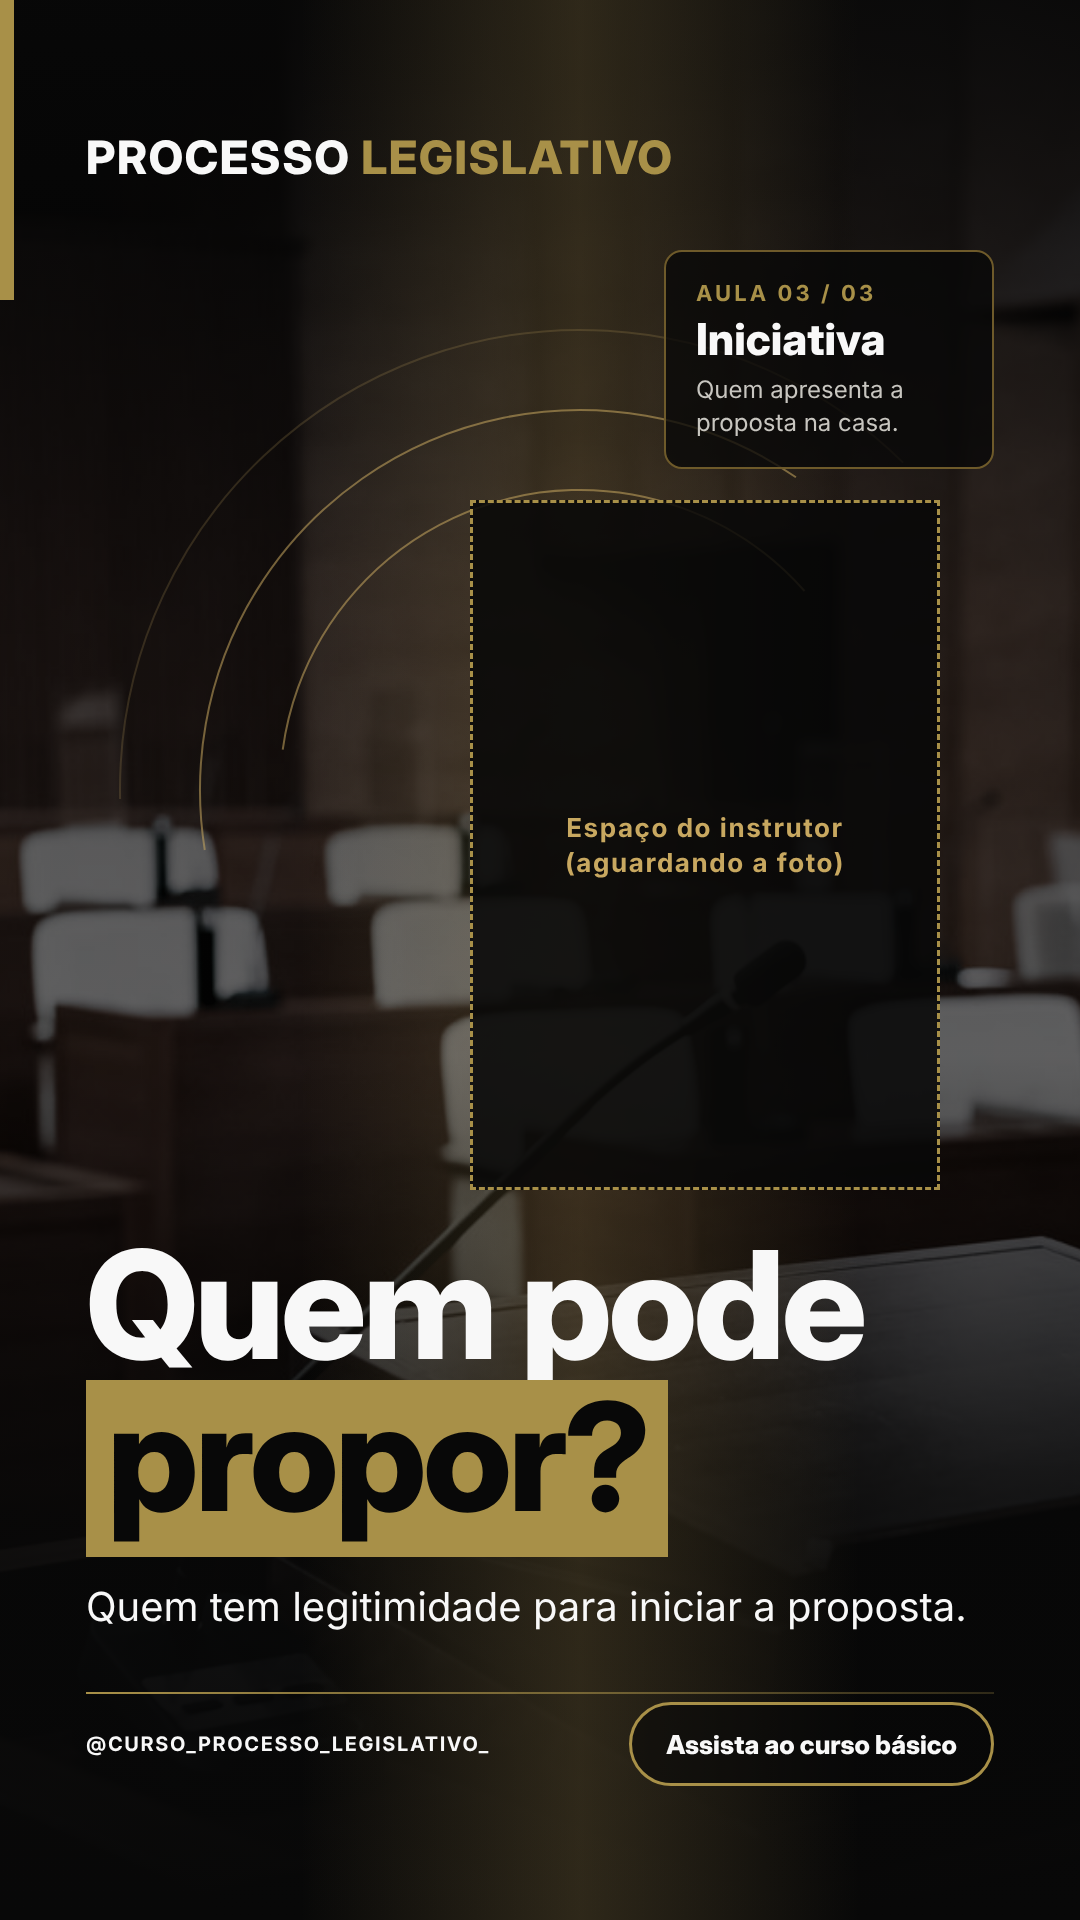
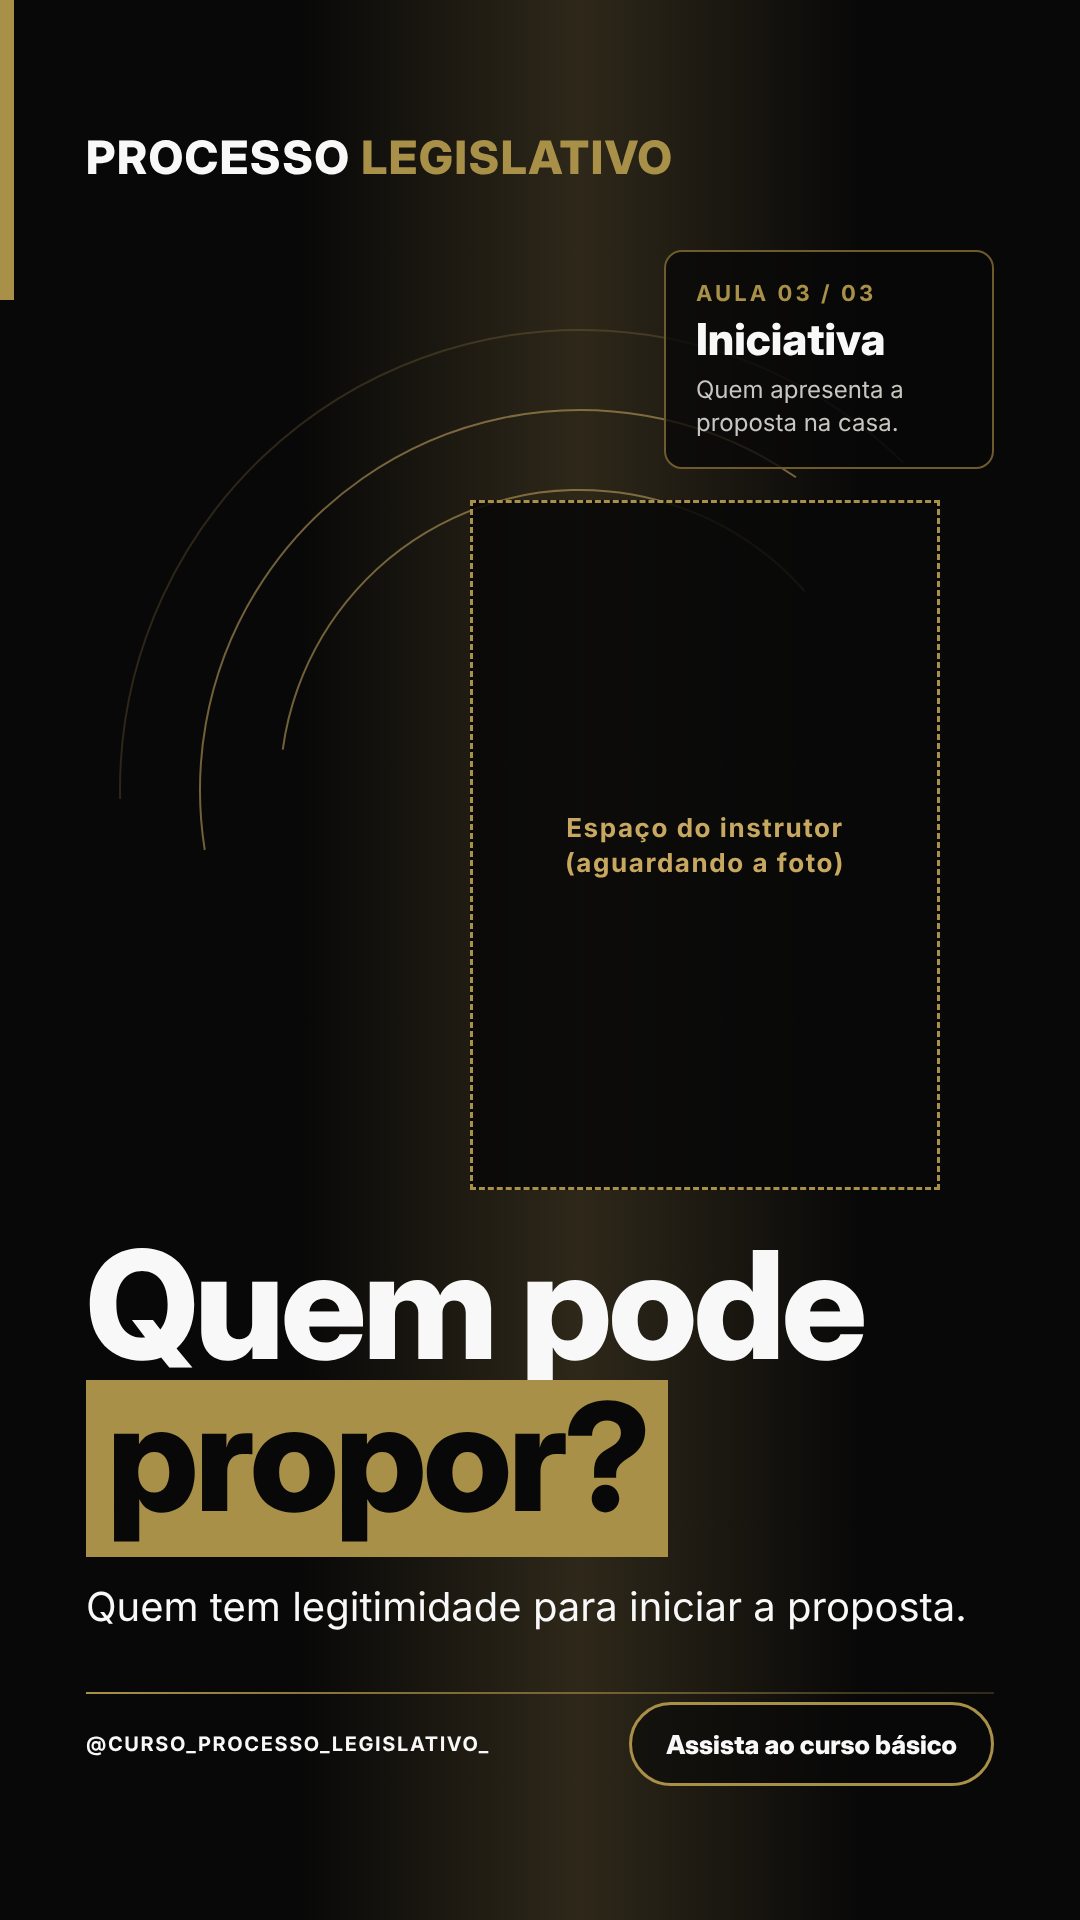
Curso de processo legislativo: capas v16 (sistema com elementos das referências)
Engenharia reversa das cinco peças de referência (só estrutura e elementos; sem rostos, marcas, textos ou fotos de terceiros), com medidas de cor em PIL e os 10 padrões que se repetem. Três capas 1080x1920 com o sistema da marca (preto #080808, dourado fosco #A89048, highlight #C8A860, branco #F8F8F8), prancha de elementos e espaço do instrutor tracejado.

Fotos: perguntas-podio.jpg (já usada na v13, pede OK do Lindson) e pakutaso-politico-maos-9243.jpg (licença comercial sem atribuição). Capa 3 sem foto de banco: a foto candidata era igual à perguntas-podio. Aguardando aprovação do Lindson.

Claude-Session: https://claude.ai/code/session_01KiaatHHTp37wp55wT2tF4N

diff --git a/agencia/clientes/curso-processo-legislativo/gerar-v16.js b/agencia/clientes/curso-processo-legislativo/gerar-v16.js
@@ -141,7 +141,7 @@ const capa2 = doc(
   `
 <div class="c">
   <canvas id="foto2" class="full" style="width:1080px;height:1920px"></canvas>
-  <div class="abs" style="left:0;top:940px;width:1080px;height:240px;background:linear-gradient(180deg,rgba(8,8,8,0),#080808)"></div>
+  <div class="abs" style="left:0;top:960px;width:1080px;height:260px;background:linear-gradient(180deg,#080808 0%,rgba(8,8,8,0) 100%)"></div>
   <div class="leitura"></div>
   <div class="feixe" style="left:380px;top:-200px;width:900px;height:1300px;transform:rotate(-18deg)"></div>
   <div class="tarja-e" style="top:420px;height:600px"></div>
@@ -180,11 +180,11 @@ window.__task = async function(){
 );
 
 // ---------- Capa 3: "Quem pode propor?" ----------
-const FOTO3 = foto('pakutaso-v16/pakutaso-tribuna-podio-9354.jpg'); // Pakutaso (licença comercial sem atribuição), pódio com microfones
+// Capa 3 sem foto de banco: o pódio de 1600 px é igual à perguntas-podio (capa 1), e as demais candidatas tinham 800 px.
 const capa3 = doc(
   `
 <div class="c">
-  <div class="full" style="background:url(${FOTO3}) 42% 50%/cover no-repeat;filter:saturate(.35) brightness(.5) contrast(1.08)"></div>
+  <div class="deg"></div>
   <div class="leitura"></div>
   <div class="feixe" style="left:300px;top:-300px;width:560px;height:2400px;background:linear-gradient(90deg,rgba(200,168,96,0) 0%,rgba(200,168,96,.2) 50%,rgba(200,168,96,0) 100%)"></div>
   ${ARCOS(90, 300)}
@@ -217,7 +217,7 @@ const ELEMENTOS = `
     <div class="tile"><div class="tt">4 · Destaque em caixa dourada</div><div style="font-family:'Inter Display';font-weight:800;font-size:64px;line-height:1.2;padding-top:40px">sem <span class="box">quórum?</span></div></div>
     <div class="tile"><div class="tt">5 · Chips com ícone</div><div style="position:relative;height:190px"><div class="chip" style="position:absolute;left:0;top:30px">${CHECK}Regimento</div><div class="chip" style="position:absolute;left:0;top:120px">${CHECK}Presença</div></div></div>
     <div class="tile"><div class="tt">6 · Lista em cartão com marcador</div><div style="position:relative;height:190px"><div class="lista" style="position:absolute;left:0;top:10px;width:300px;padding:18px 22px">
-      <div style="font-size:24px">${TRI}Regimento interno</div><div style="font-size:24px;margin-top:16px">${TRI}Presença</div></div></div></div>
+      <div style="font-size:19px;white-space:nowrap">${TRI}Regimento interno</div><div style="font-size:19px;margin-top:16px">${TRI}Presença</div></div></div></div>
     <div class="tile"><div class="tt">7 · Barra inferior com pílula</div><div style="position:relative;height:190px"><div style="position:absolute;left:0;right:0;top:30px;display:flex;flex-direction:column;gap:18px;align-items:flex-start"><div class="handle" style="font-size:14px">${HANDLE}</div><div class="pill" style="height:60px;font-size:18px;padding:0 24px">Assista ao curso básico</div></div></div></div>
     <div class="tile"><div class="tt">8 · Tarja vertical e feixe de luz</div><div style="position:relative;height:190px;background:linear-gradient(115deg,#111 0%,#1a160c 100%);overflow:hidden"><div style="position:absolute;right:0;top:0;width:12px;height:190px;background:#A89048"></div><div class="feixe" style="left:-40px;top:-60px;width:280px;height:300px"></div></div></div>
     <div class="tile"><div class="tt">9 · Espaço do instrutor</div><div style="position:relative;height:190px"><div class="slot" style="position:absolute;left:50%;top:14px;transform:translateX(-50%);width:200px;height:160px;font-size:16px;padding:14px">Espaço do instrutor<br>(aguardando a foto)</div></div></div>

diff --git a/agencia/clientes/curso-processo-legislativo/FOTOS-USADAS.md b/agencia/clientes/curso-processo-legislativo/FOTOS-USADAS.md
@@ -54,3 +54,23 @@ Busca https://www.pexels.com/pt-br/procurar/advocacia/ bloqueada (Cloudflare "Ju
 | `fotos-banco/pakutaso-v15/pakutaso-diet-road-4769.jpg` | Pakutaso, "National Diet Building Road Approach, Tokyo" (https://www.pakutaso.com/en/20141021302post-4769.html) | "Commercial use, no attribution" | `capas-v15/capa-v15-3.png` (tela cheia, P&B). Sem pessoas. |
 
 Notas: as duas fotos novas são de câmaras e prédio japoneses (banco livre), não do Maranhão. Na foto da fala, o rosto do orador fica fora do quadro e o do fundo está desfocado. As duas também foram baixadas e commitadas pela sessão que fez o commit `a573aaf`; os arquivos são idênticos.
+
+## Capas v16 (07/11, agente de design, conta Leandro)
+Licença das fotos novas: Pakutaso, "Commercial use, no attribution required" (página da própria foto).
+
+| Arquivo | Origem | Licença (segundo a própria página) | Onde foi usada |
+|---|---|---|---|
+| `fotos-banco/diversas/perguntas-podio.jpg` | Pakutaso, pódio com perguntas (https://www.pakutaso.com/en/20230132023post-44851.html) | mesma licença | `capas-v16/capa-v16-1.png` (fundo) |
+| `fotos-banco/pakutaso-v16/pakutaso-politico-maos-9243.jpg` | Pakutaso, "Politician Gesturing During Council Speech" (https://www.pakutaso.com/en/20260209034post-56476.html) | mesma licença | `capas-v16/capa-v16-2.png` (faixa inferior, recorte sem o rosto) |
+
+**Atenção, repetição:** `perguntas-podio.jpg` já tinha sido usada em `capas-v13/capa-v13-1.png` (ver a seção de capas v13 acima). A v16 a usa de novo porque o pedido do Lindson a indicou. **Pede OK do Lindson.** Se ele não aprovar, a capa 1 troca o fundo por outra foto nova.
+
+**Descartadas nesta rodada:**
+- `pakutaso-tribuna-podio-9354` (página 20230132023post-44851): é o mesmo arquivo de `perguntas-podio.jpg` (md5 igual). Não usada.
+- `senkyoman-IMG_9821` (Pakutaso, cena de campanha com rosto identificável): tom de campanha eleitoral, fora do curso. Não usada.
+- `senkyoIMG_9368` (800 px) e `susigikaiPAR58249-9238` (800 px): pequenas demais para 1080x1920. Não usadas.
+- A capa 3 ficou sem foto de banco: o fundo é o degradê da marca e o espaço do instrutor é a imagem principal.
+
+Não usadas nesta rodada (lista de não repetir): martelo-pexels-5668473, 37732186, 6077326, 6077447, camara-plenario, camara-fileiras, fileiras-publico, microfones, tablet-reuniao, podio, discurso-pakutaso.
+
+**Pessoa na foto:** a foto `pakutaso-politico-maos-9243` mostra um homem de terno. O recorte da capa 2 corta o rosto e usa só as mãos, o papel e o terno. Não é retrato de advogado nem pessoa das referências.

diff --git a/agencia/clientes/curso-processo-legislativo/identidade/ENGENHARIA-REVERSA-V16.md b/agencia/clientes/curso-processo-legislativo/identidade/ENGENHARIA-REVERSA-V16.md
@@ -64,7 +64,7 @@ Conta Leandro, 07/11/2026 · agente de design · pedido do Lindson: estudar as 5
 | Tratamento da foto | Azul-marinho escuro (quase monocromático frio); luz frontal suave sobre o rosto; fundo de escritório desfocado. |
 | Gráficos de apoio | Formas brancas de folha (2, em torno da pessoa, no meio da altura); folhas de papel em perspectiva; linha fina no rodapé; chip de pílula contornada com seta. |
 | Destaque de palavra | Não há caixa atrás do texto. A ênfase é o branco puro contra o azul escuro. |
-| Paleta medida | Azul-marinho `#1A2634`, `#111D27`, `#08171D`; preto-azulado `#051319`, `#06151A`; branco `#FFFFFF`. Sem dourado (o valor que apareceu é de pele, pouco pixel). |
+| Paleta medida | Azul-marinho `#1A2634`, `#111D27`, `#08171D`; preto-azulado `#051319`, `#06151A`; branco `#FFFFFF`. Sem dourado no fundo; o valor com cor quente que apareceu tem poucos pixels (provavelmente pele). |
 | Tipografia | Título em serifa de alto contraste (não se aplica à marca do curso, que proíbe serifa); subtítulo sans regular; rótulo em caixa alta com tracking. |
 | Barra inferior | Rodapé fino com handle e avatar à esquerda e uma linha de texto miúdo ao centro. |
 
